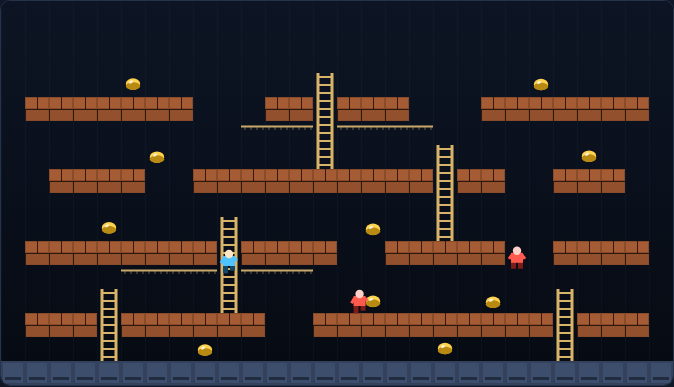
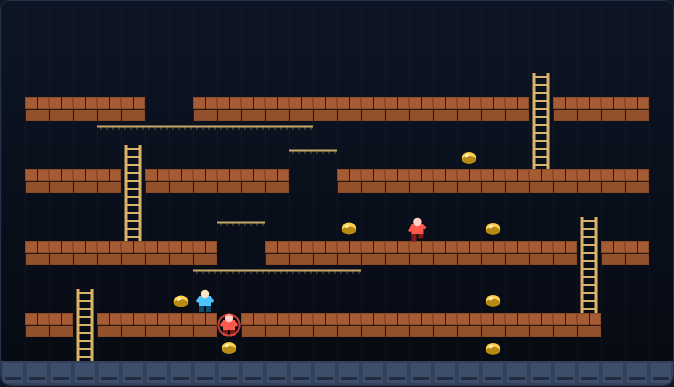
Make Lode Runner levels solvable and holes trappable
Two real defects found by playing the game rather than the specs:

- The three shipped levels were not finishable. Ladders and platform gaps left
  chests and the escape route walled off, which a new connectivity spec now
  proves: it floods each level with the game's own movement rules and asserts
  every chest is reachable, the exit is reachable, and no chest strands the
  runner. All three maps are rebuilt to pass it.
- A drilled hole in a one-tile-thick floor let guards fall straight through, so
  nothing could ever be trapped. A hole is now a pit with a floor, which is what
  makes the trap mechanic — and burying yourself — possible.

Also adds a playthrough spec that drives an autopilot through all three levels
using only the ordinary direction keys, ending in the won state.

Claude-Session: https://claude.ai/code/session_01XirkMVPtTD7sFjhkfXRT2B

diff --git a/LodeRunner/tests/loderunner.spec.js b/LodeRunner/tests/loderunner.spec.js
@@ -131,6 +131,62 @@ test.describe('Lode Runner', () => {
                 expect(level.escapes).toBeGreaterThan(0);
             }
         });
+
+        test('every shipped level can actually be finished', async ({ page }) => {
+            // Flood the level with the game's own movement rules (no digging) and
+            // check the runner can reach every chest, reach the top of an escape
+            // ladder, and is never stranded after taking a chest.
+            const report = await page.evaluate(() => {
+                function reachable(sc, sr) {
+                    const seen = new Set([sr * COLS + sc]);
+                    const queue = [[sc, sr]];
+                    while (queue.length) {
+                        const [c, r] = queue.shift();
+                        const moves = [[c, r + 1]];
+                        if (supported(c, r)) {
+                            moves.push([c - 1, r], [c + 1, r]);
+                            if (tileAt(c, r) === 'ladder') moves.push([c, r - 1]);
+                        }
+                        for (const [mc, mr] of moves) {
+                            if (!canEnter(mc, mr)) continue;
+                            const key = mr * COLS + mc;
+                            if (seen.has(key)) continue;
+                            seen.add(key);
+                            queue.push([mc, mr]);
+                        }
+                    }
+                    return seen;
+                }
+
+                const out = [];
+                for (let i = 0; i < LEVELS.length; i++) {
+                    loadLevel(i);
+                    autoStep = false;
+                    const spawn = { c: player.c, r: player.r };
+                    const chests = gold.map((g) => ({ c: g.c, r: g.r }));
+                    const beforeReveal = reachable(spawn.c, spawn.r);
+                    revealEscape();
+                    const exits = escapeCells.filter((e) => e.r === 0).map((e) => e.r * COLS + e.c);
+                    const fromSpawn = reachable(spawn.c, spawn.r);
+                    out.push({
+                        level: i + 1,
+                        unreachableChests: chests.filter((g) => !beforeReveal.has(g.r * COLS + g.c)),
+                        exitReachable: exits.length > 0 && exits.some((k) => fromSpawn.has(k)),
+                        strandedAt: chests.filter((g) => {
+                            const from = reachable(g.c, g.r);
+                            return !exits.some((k) => from.has(k));
+                        }),
+                    });
+                }
+                return out;
+            });
+
+            for (const level of report) {
+                expect(level.unreachableChests, `level ${level.level}`).toEqual([]);
+                expect(level.strandedAt, `level ${level.level}`).toEqual([]);
+                expect(level.exitReachable, `level ${level.level}`).toBe(true);
+            }
+        });
     });
 
     // -----------------------------------------------------------------------
@@ -509,6 +565,40 @@ test.describe('Lode Runner', () => {
             expect(await cellOf(page)).toMatchObject({ c: 5, r: 4 });
         });
 
+        // A drilled brick becomes a pit with a floor, even where the level has
+        // open space underneath — otherwise nothing could ever be trapped in it.
+        const THIN_FLOOR = [
+            '..........',
+            '..........',
+            '....@.....',
+            '##########',
+            '..........',
+            '==========',
+        ];
+
+        test('a hole holds the runner instead of dropping them through', async ({ page }) => {
+            await load(page, THIN_FLOOR);
+            await page.evaluate(() => digRight());
+            await press(page, 'right');
+            await advance(page, 60);
+            expect(await cellOf(page)).toMatchObject({ c: 5, r: 3 });
+        });
+
+        test('a hole in a thin floor still traps a guard', async ({ page }) => {
+            await load(page, [
+                '..........',
+                '..........',
+                '....@..X..',
+                '##########',
+                '..........',
+                '==========',
+            ]);
+            await page.evaluate(() => digRight());
+            await advance(page, 90);
+            const g = await page.evaluate(() => ({ c: guards[0].c, r: guards[0].r, trapped: guards[0].trapped }));
+            expect(g).toMatchObject({ c: 5, r: 3, trapped: true });
+        });
+
         test('a refilling hole crushes the runner', async ({ page }) => {
             await load(page, DIG);
             await page.evaluate(() => { lives = 3; digRight(); setPlayerCell(5, 4); });
@@ -598,6 +688,89 @@ test.describe('Lode Runner', () => {
             await advance(page, 20);
             expect(await page.evaluate(() => state)).toBe('gameover');
             await expect(page.locator('#overlay')).toHaveClass(/visible/);
+        });
+    });
+
+    // -----------------------------------------------------------------------
+    // Full playthrough
+    // -----------------------------------------------------------------------
+    test.describe('playthrough', () => {
+        test('an autopilot clears every level using only the real controls', async ({ page }) => {
+            test.setTimeout(60_000);
+            const result = await page.evaluate(() => {
+                // Shortest route to any of `targets`, using the game's movement rules.
+                function pathTo(sc, sr, targets) {
+                    const goal = new Set(targets.map((t) => t.r * COLS + t.c));
+                    const prev = new Map();
+                    const seen = new Set([sr * COLS + sc]);
+                    const queue = [[sc, sr]];
+                    while (queue.length) {
+                        const [c, r] = queue.shift();
+                        if (goal.has(r * COLS + c) && !(c === sc && r === sr)) {
+                            const out = [];
+                            let k = r * COLS + c;
+                            while (k !== sr * COLS + sc) { out.unshift(k); k = prev.get(k); }
+                            return out.map((k) => ({ c: k % COLS, r: (k - (k % COLS)) / COLS }));
+                        }
+                        const moves = [[c, r + 1]];
+                        if (supported(c, r)) {
+                            moves.push([c - 1, r], [c + 1, r]);
+                            if (tileAt(c, r) === 'ladder') moves.push([c, r - 1]);
+                        }
+                        for (const [mc, mr] of moves) {
+                            if (!canEnter(mc, mr)) continue;
+                            const key = mr * COLS + mc;
+                            if (seen.has(key)) continue;
+                            seen.add(key);
+                            prev.set(key, r * COLS + c);
+                            queue.push([mc, mr]);
+                        }
+                    }
+                    return null;
+                }
+
+                // Hold the key for the cell the runner is about to arrive on: that
+                // is the moment the engine reads input, exactly like a human would.
+                function steer() {
+                    const c = player.moving ? player.tc : player.c;
+                    const r = player.moving ? player.tr : player.r;
+                    const targets = goldRemaining > 0
+                        ? gold.filter((g) => !g.taken)
+                        : escapeCells.filter((e) => e.r === 0);
+                    const plan = pathTo(c, r, targets);
+                    resetInput();
+                    const next = plan && plan[0];
+                    if (!next) return;
+                    if (next.c < c) input.left = true;
+                    else if (next.c > c) input.right = true;
+                    else if (next.r < r) input.up = true;
+                    else if (next.r > r) input.down = true;
+                }
+
+                startGame();
+                autoStep = false;
+                const cleared = [];
+                let frames = 0;
+                let seen = level;
+                guards.length = 0;   // a solo run: this is about the levels, not the chase
+                while (frames < 60 * 240 && state === 'playing') {
+                    steer();
+                    step(1 / 60);
+                    frames++;
+                    if (level !== seen) {
+                        cleared.push(seen);
+                        seen = level;
+                        guards.length = 0;
+                    }
+                }
+                if (state === 'won') cleared.push(seen);
+                resetInput();
+                return { cleared, state, score, seconds: frames / 60 };
+            });
+
+            expect(result.cleared).toEqual([1, 2, 3]);
+            expect(result.state).toBe('won');
+            expect(result.score).toBeGreaterThan(0);
         });
     });
 

diff --git a/LodeRunner/game.js b/LodeRunner/game.js
@@ -52,57 +52,57 @@ const BEST_KEY = 'loderunner.best';
 // '$' gold   '@' runner  'X' guard   'E' escape ladder (hidden until gold is gone)
 const LEVELS = [
     [
-        '.E........................E.',
-        '.E........................E.',
-        '.E........................E.',
-        '.E...$.......H........$...E.',
-        '.#######...##H###...#######.',
-        '..........---H----..........',
-        '......$......H....H.....$...',
-        '..####..##########H##..###..',
-        '..................H.........',
-        '....$....H.....$..H.........',
-        '.########H####..#####..####.',
-        '.....----H---...............',
-        '....H....H.....$....$..H....',
-        '.###H######..##########H###.',
-        '.@..H...$....X....$....H..X.',
+        '.............E..............',
+        '.............E..............',
+        '.............E..............',
+        '........$....E....$...H.....',
+        '.#####..##############H####.',
+        '....---------.........H.....',
+        '.....H...$..--.....$..H.....',
+        '.####H######..#############.',
+        '.....H......................',
+        '.....H...--...$.....$...H...',
+        '.########..#############H##.',
+        '........-------.........H...',
+        '...H...$............$...H...',
+        '.##H#####################...',
+        '.@.H.....$....X.....$....X..',
         '============================',
     ],
     [
-        '..E......................E..',
-        '..E......................E..',
-        '..E......................E..',
-        '..E...$..........$.......E..',
-        '..########H###..##########..',
-        '..........H.................',
-        '..........H----------.......',
-        '....$.....H...$..H.....$....',
-        '.######..########H####..###.',
+        '..........E.................',
+        '..........E.................',
+        '..........E.................',
+        '........$.E...$..H....$.....',
+        '.###..###########H#########.',
         '.................H..........',
-        '........---------H..........',
-        '..$...H......$...H...H...$..',
-        '.#####H######..######H#####.',
-        '......H.............H.......',
-        '.@....H..$..X....$...H..X...',
+        '...------........H..........',
+        '......H...$...$..H.$........',
+        '.#####H##########H##..#####.',
+        '......H.....................',
+        '......H.....---------.......',
+        '...$..H.....$.....$..H......',
+        '.####################H##..#.',
+        '.....................H......',
+        '.@...$...X..$....$...H..X...',
         '============================',
     ],
     [
-        '.............E..............',
-        '.............E..............',
-        '.....$..H....E.....H.$......',
-        '...#####H#..####..#H#####...',
-        '........H..........H........',
-        '..$H....H..$.......H....H.$.',
-        '.##H#..###############..H##.',
-        '...H....................H...',
-        '...H...$.....H...$......H...',
-        '..########..#H####..######..',
-        '....---------H..............',
-        '...$...H.....H......H...$...',
-        '.######H#######..###H######.',
-        '.......H............H.......',
-        '.@..$..H..X.....X...H..$..X.',
+        '....................E.......',
+        '....................E.......',
+        '........H.$......$..E.......',
+        '...#####H##############..##.',
+        '........H............------.',
+        '........H...$.......$....H..',
+        '.##..####################H#.',
+        '.------..................H..',
+        '..H..$.........--....$...H..',
+        '.#H############..##########.',
+        '..H............--------.....',
+        '..H...$...$..H..............',
+        '.############H####..#######.',
+        '.............H..............',
+        '.@...$..X....H...X$.....$X..',
         '============================',
     ],
 ];
@@ -177,6 +177,9 @@ function canEnter(c, r) {
 function supported(c, r) {
     const here = tileAt(c, r);
     if (here === LADDER || here === ROPE) return true;
+    // A drilled brick is a pit, not a shaft: whatever drops in lands in it, even
+    // where the floor is a single tile thick with open space underneath.
+    if (here === HOLE) return true;
     if (r >= ROWS - 1) return true;
     const below = tileAt(c, r + 1);
     if (below === BRICK || below === SOLID || below === LADDER) return true;

diff --git a/LodeRunner/DESIGN.md b/LodeRunner/DESIGN.md
@@ -46,9 +46,9 @@ always cover exactly one second of motion regardless of how the cells line up.
 
 Rules, applied in this order every time an actor becomes aligned:
 
-1. **Support.** An actor is supported when it stands on a ladder or rope tile,
-   when the tile below is brick/solid/ladder, when a trapped guard fills the
-   cell below, or when it is on the bottom row. Unsupported actors fall, and a
+1. **Support.** An actor is supported when it stands on a ladder, rope or hole
+   tile, when the tile below is brick/solid/ladder, when a trapped guard fills
+   the cell below, or when it is on the bottom row. Unsupported actors fall, and a
    falling actor accepts no steering — the classic "commit to your drop" rule.
 2. **Climb.** Up is legal only from a ladder tile; down is legal into any
    enterable cell (climbing a ladder down, or deliberately dropping).
@@ -68,6 +68,13 @@ and no actor is standing in that cell. The brick becomes a hole for
 `HOLE_TIME` (5 s); when the timer expires the brick reforms and anything inside
 the cell is crushed — a guard dies and respawns, the runner loses a life.
 
+A hole is a **pit, not a shaft**: `supported()` treats a hole tile as standable,
+so whatever drops in lands *in* it even where the floor is a single tile thick
+with open space below. Without that rule the trap mechanic would not exist —
+guards would fall clean through every drilled brick, which is exactly what the
+first implementation did — and it is what makes a hole dangerous to the runner
+too, who can only leave one if a neighbouring cell happens to be enterable.
+
 ### Guards
 
 Guards path with a breadth-first search over the *reverse* movement graph seeded
@@ -81,6 +88,17 @@ A guard that lands in a hole is trapped for `TRAP_TIME` (2.6 s), then climbs out
 toward the runner's side. While trapped it is a platform: the runner can stand
 and run across its head. Touching a guard in any other way costs a life and
 resets the level layout.
+
+### Level construction
+
+Every level is walked by a connectivity check in the suite before it ships. The
+rule the maps follow: each ladder spans from the standing row of the platform
+below to the standing row of the platform above, and any gap that sits *between*
+two ladders on a walking row is bridged with rope tiles on that row — otherwise
+the gap silently severs the route and strands chests behind it. Gaps outside a
+walking run are left open on purpose as one-way drop shafts, usually onto a rope.
+The first draft of all three levels failed exactly this check, which is why it is
+a test rather than a review step.
 
 ### Scoring and flow
 
@@ -129,8 +147,20 @@ The suite drives the simulation rather than watching it, using these globals:
 - `setPlayerCell(c, r)` / `setGuardCell(i, c, r)` — teleport an actor to a cell
   so a rule can be tested in isolation.
 - `input` — `{ left, right, up, down }`, the same object the key handlers write.
-- `tileAt(c, r)`, `digLeft()`, `digRight()`, plus `player`, `guards`, `holes`,
-  `gold`, `goldRemaining`, `state`, `score`, `lives`, `level`.
+- `tileAt(c, r)`, `canEnter(c, r)`, `supported(c, r)`, `digLeft()`, `digRight()`,
+  `revealEscape()`, `killPlayer()`, `resetInput()`, `render()`, plus `player`,
+  `guards`, `holes`, `gold`, `goldRemaining`, `escapeCells`, `state`, `score`,
+  `lives`, `level`, `LEVELS`.
+
+Two specs use those hooks to check the whole game rather than one rule:
+
+- **Solvability** floods each shipped level with the game's own movement rules
+  and asserts every chest is reachable, the top of an escape ladder is reachable,
+  and no chest strands the runner.
+- **Playthrough** drives an autopilot that plans with the same flood and then
+  plays by holding the ordinary direction keys — steering from the cell the
+  runner is *about to* reach, since that is the moment the engine reads input.
+  It has to clear all three levels and land in the `won` state.
 
 ## Assumptions
 
